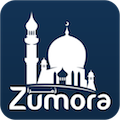
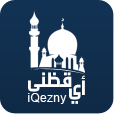
adding localization, updating graphics

diff --git a/Zumara/LoginViewController.m b/Zumara/LoginViewController.m
@@ -16,6 +16,17 @@
 
 #pragma mark - UIViewController
 
+- (void)updateLanguageSegment {
+    NSArray *deviceLanguages = [[NSUserDefaults standardUserDefaults] objectForKey:@"AppleLanguages"];
+    if([deviceLanguages count]){
+        if([[deviceLanguages objectAtIndex:0] isEqualToString:@"ar"]){
+            self.languageSegment.selectedSegmentIndex = 0;
+        }else{
+            self.languageSegment.selectedSegmentIndex = 1;
+        }
+    }
+}
+
 - (void)viewDidLoad {
     [super viewDidLoad];
     [self setNeedsStatusBarAppearanceUpdate];
@@ -28,6 +39,8 @@
     if ([PFUser currentUser] && [PFFacebookUtils isLinkedWithUser:[PFUser currentUser]]) {
         [self loginSucceeded];
     }
+    
+    [self updateLanguageSegment];
 }
 
 -(UIStatusBarStyle)preferredStatusBarStyle{
@@ -51,7 +64,7 @@
 
 - (void)loginSucceeded {
     self.isLoggedIn = YES;
-    self.loginButton.titleLabel.text = [NSString stringWithFormat:@"Signout, %@",[PFUser currentUser][FACEBOOK_NAME]];
+    self.loginButton.titleLabel.text = [NSString stringWithFormat:NSLocalizedString(@"Signout, %@",nil),[PFUser currentUser][FACEBOOK_NAME]];
     [self updateUserDataOnParse];
     [self showFriendsViewController];
 }
@@ -79,12 +92,11 @@
 
         if (!user) {
             if (!error) {
-                NSLog(@"Uh oh. The user cancelled the Facebook login.");
-                UIAlertView *alert = [[UIAlertView alloc] initWithTitle:@"Log In Error" message:@"Uh oh. The user cancelled the Facebook login." delegate:nil cancelButtonTitle:nil otherButtonTitles:@"Dismiss", nil];
+                UIAlertView *alert = [[UIAlertView alloc] initWithTitle:NSLocalizedString(@"Log In Error",nil) message:NSLocalizedString(@"The Facebook login was cancelled by the user.",nil) delegate:nil cancelButtonTitle:nil otherButtonTitles:NSLocalizedString(@"Dismiss",nil), nil];
                 [alert show];
             } else {
                 NSLog(@"Uh oh. An error occurred: %@", error);
-                UIAlertView *alert = [[UIAlertView alloc] initWithTitle:@"Log In Error" message:@"Please check your internet connection" delegate:nil cancelButtonTitle:nil otherButtonTitles:@"Dismiss", nil];
+                UIAlertView *alert = [[UIAlertView alloc] initWithTitle:NSLocalizedString(@"Log In Error",nil) message:NSLocalizedString(@"Please check your internet connection",nil) delegate:nil cancelButtonTitle:nil otherButtonTitles:NSLocalizedString(@"Dismiss",nil), nil];
                 [alert show];
             }
         }else{
@@ -103,7 +115,7 @@
         // The session state handler (in the app delegate) will be called automatically
         [FBSession.activeSession closeAndClearTokenInformation];
         self.isLoggedIn = NO;
-        self.loginButton.titleLabel.text = @"Sign in with Facebook";
+        self.loginButton.titleLabel.text = NSLocalizedString(@"Sign in with Facebook",nil);
     }
 }
 
@@ -135,7 +147,34 @@
         }
     }];
 }
-     
 
+
+- (IBAction)languageSegmentAction:(id)sender{
+
+    NSString * alertMessage = [NSString stringWithFormat:NSLocalizedString(@"Change Language Warning Message", @""),NSLocalizedString(@"New Language", @"")];
+    UIAlertView * alertView = [[UIAlertView alloc]initWithTitle:NSLocalizedString(@"Change Language Dialog Title", @"") message:alertMessage
+                                                       delegate:self cancelButtonTitle:NSLocalizedString(@"Cancel", @"") otherButtonTitles:NSLocalizedString(@"OK", @"") ,nil];
+    [alertView show];
+}
+
+
+- (void)alertView:(UIAlertView *)alertView clickedButtonAtIndex:(NSInteger)buttonIndex{
+    if(buttonIndex == 1){//OK
+        if(self.languageSegment.selectedSegmentIndex == 0){
+            [[NSUserDefaults standardUserDefaults] setObject:[NSArray arrayWithObjects:@"ar", nil] forKey:@"AppleLanguages"];
+        }else{
+            [[NSUserDefaults standardUserDefaults] setObject:[NSArray arrayWithObjects:@"eg", nil] forKey:@"AppleLanguages"];
+        }
+        [[NSUserDefaults standardUserDefaults]synchronize];
+        exit(0);
+    }else{
+        [self updateLanguageSegment];
+    }
+}
+
+
+-(IBAction)goToBadrIT:(id)sender{
+    [[UIApplication sharedApplication] openURL:[NSURL URLWithString:@"http://www.badrit.com"]];
+}
 
 @end

diff --git a/Zumara/FriendsTableViewController.m b/Zumara/FriendsTableViewController.m
@@ -8,6 +8,7 @@
 
 #import "FriendsTableViewController.h"
 #import <Parse/Parse.h>
+#define MAX_USER_NAME 15
 
 @implementation FriendsTableViewController
 
@@ -40,7 +41,7 @@
 
         if (error) {
             NSLog(@"Uh oh. An error occurred: %@", error);
-            UIAlertView *alert = [[UIAlertView alloc] initWithTitle:@"Fetch User Data Error" message:@"Try again later" delegate:nil cancelButtonTitle:nil otherButtonTitles:@"Dismiss", nil];
+            UIAlertView *alert = [[UIAlertView alloc] initWithTitle:NSLocalizedString(@"Error Loadings Friends",nil) message:@"Try again later" delegate:nil cancelButtonTitle:nil otherButtonTitles:NSLocalizedString(@"Dismiss",nil), nil];
             [alert show];
             [self.refreshControl endRefreshing];
         }else{
@@ -51,7 +52,7 @@
                     [self filterAwakenFriends:data];
                 }else{
                     NSLog(@"Uh oh. An error occurred: %@", error);
-                    UIAlertView *alert = [[UIAlertView alloc] initWithTitle:@"Fetch Friends Error" message:@"Try again later" delegate:nil cancelButtonTitle:nil otherButtonTitles:@"Dismiss", nil];
+                    UIAlertView *alert = [[UIAlertView alloc] initWithTitle:NSLocalizedString(@"Error Loadings Friends",nil) message:NSLocalizedString(@"Try again later",nil) delegate:nil cancelButtonTitle:nil otherButtonTitles:NSLocalizedString(@"Dismiss",nil), nil];
                     [alert show];
                     [self.refreshControl endRefreshing];
                 }
@@ -92,20 +93,27 @@
 
     NSIndexPath * indexPath = [self.tableView indexPathForCell:cell];
     PFUser * zumaraFriend = self.friends[indexPath.row];
-    NSString * name = zumaraFriend[FACEBOOK_NAME];
-    NSLog(@"wake %@",name);
     
     // Create our Installation query
     PFQuery *pushQuery = [PFInstallation query];
     [pushQuery whereKey:FACEBOOK_ID equalTo:zumaraFriend[FACEBOOK_ID]];
     
+    NSString * senderName =  [PFUser currentUser][FACEBOOK_NAME];
+    if(senderName.length > MAX_USER_NAME){    //trim user name so it can fit in iOS push notification
+        senderName = [senderName substringToIndex:senderName.length-(senderName.length-MAX_USER_NAME)];
+    }
+    
+    NSString * senderID =  [PFUser currentUser][FACEBOOK_ID];
+    NSString * alertMessage = [NSString stringWithFormat:NSLocalizedString(@"Prayer is better than sleep",nil),senderName];
+
     NSDictionary *data = [NSDictionary dictionaryWithObjectsAndKeys:
-                          @"الصلاة خير من النوم", @"alert",
+                          alertMessage, @"alert",
                           @"Increment", @"badge",
-                          @"fajr.caf", @"sound",                                                              @"alarm",@"type",
+                          @"fajr.caf", @"sound",
+                          @"alarm",@"type",
                           @"com.badit.zomara.UPDATE_STATUS",@"action",
-                          zumaraFriend[FACEBOOK_ID],@"fromId",
-                          zumaraFriend[FACEBOOK_NAME],@"fromUser",
+                          senderID,@"fromId",
+                          senderName,@"fromUser",
                           nil];
     PFPush *push = [[PFPush alloc] init];
     [push setQuery:pushQuery];

diff --git a/Zumara/LoginViewController.h b/Zumara/LoginViewController.h
@@ -10,10 +10,12 @@
 
 @property (nonatomic, strong) IBOutlet UIButton *facebookIconButton;
 @property (nonatomic, strong) IBOutlet UIButton *loginButton;
+@property (strong,nonatomic) IBOutlet UISegmentedControl *languageSegment;
 
 @property (nonatomic, strong) IBOutlet UIImageView *backgroundImageView;
 
 
 - (IBAction)loginButtonTouchHandler:(id)sender;
+- (IBAction)languageSegmentAction:(id)sender;
 
 @end

diff --git a/Zumara/AppDelegate.m b/Zumara/AppDelegate.m
@@ -23,7 +23,6 @@
     // Your Facebook application id is configured in Info.plist.
     // ****************************************************************************
     [PFFacebookUtils initializeFacebook];
-    NSLog(@"version %@",[FBSettings sdkVersion]);
 
     // Register for push notifications
     [application registerForRemoteNotificationTypes:
